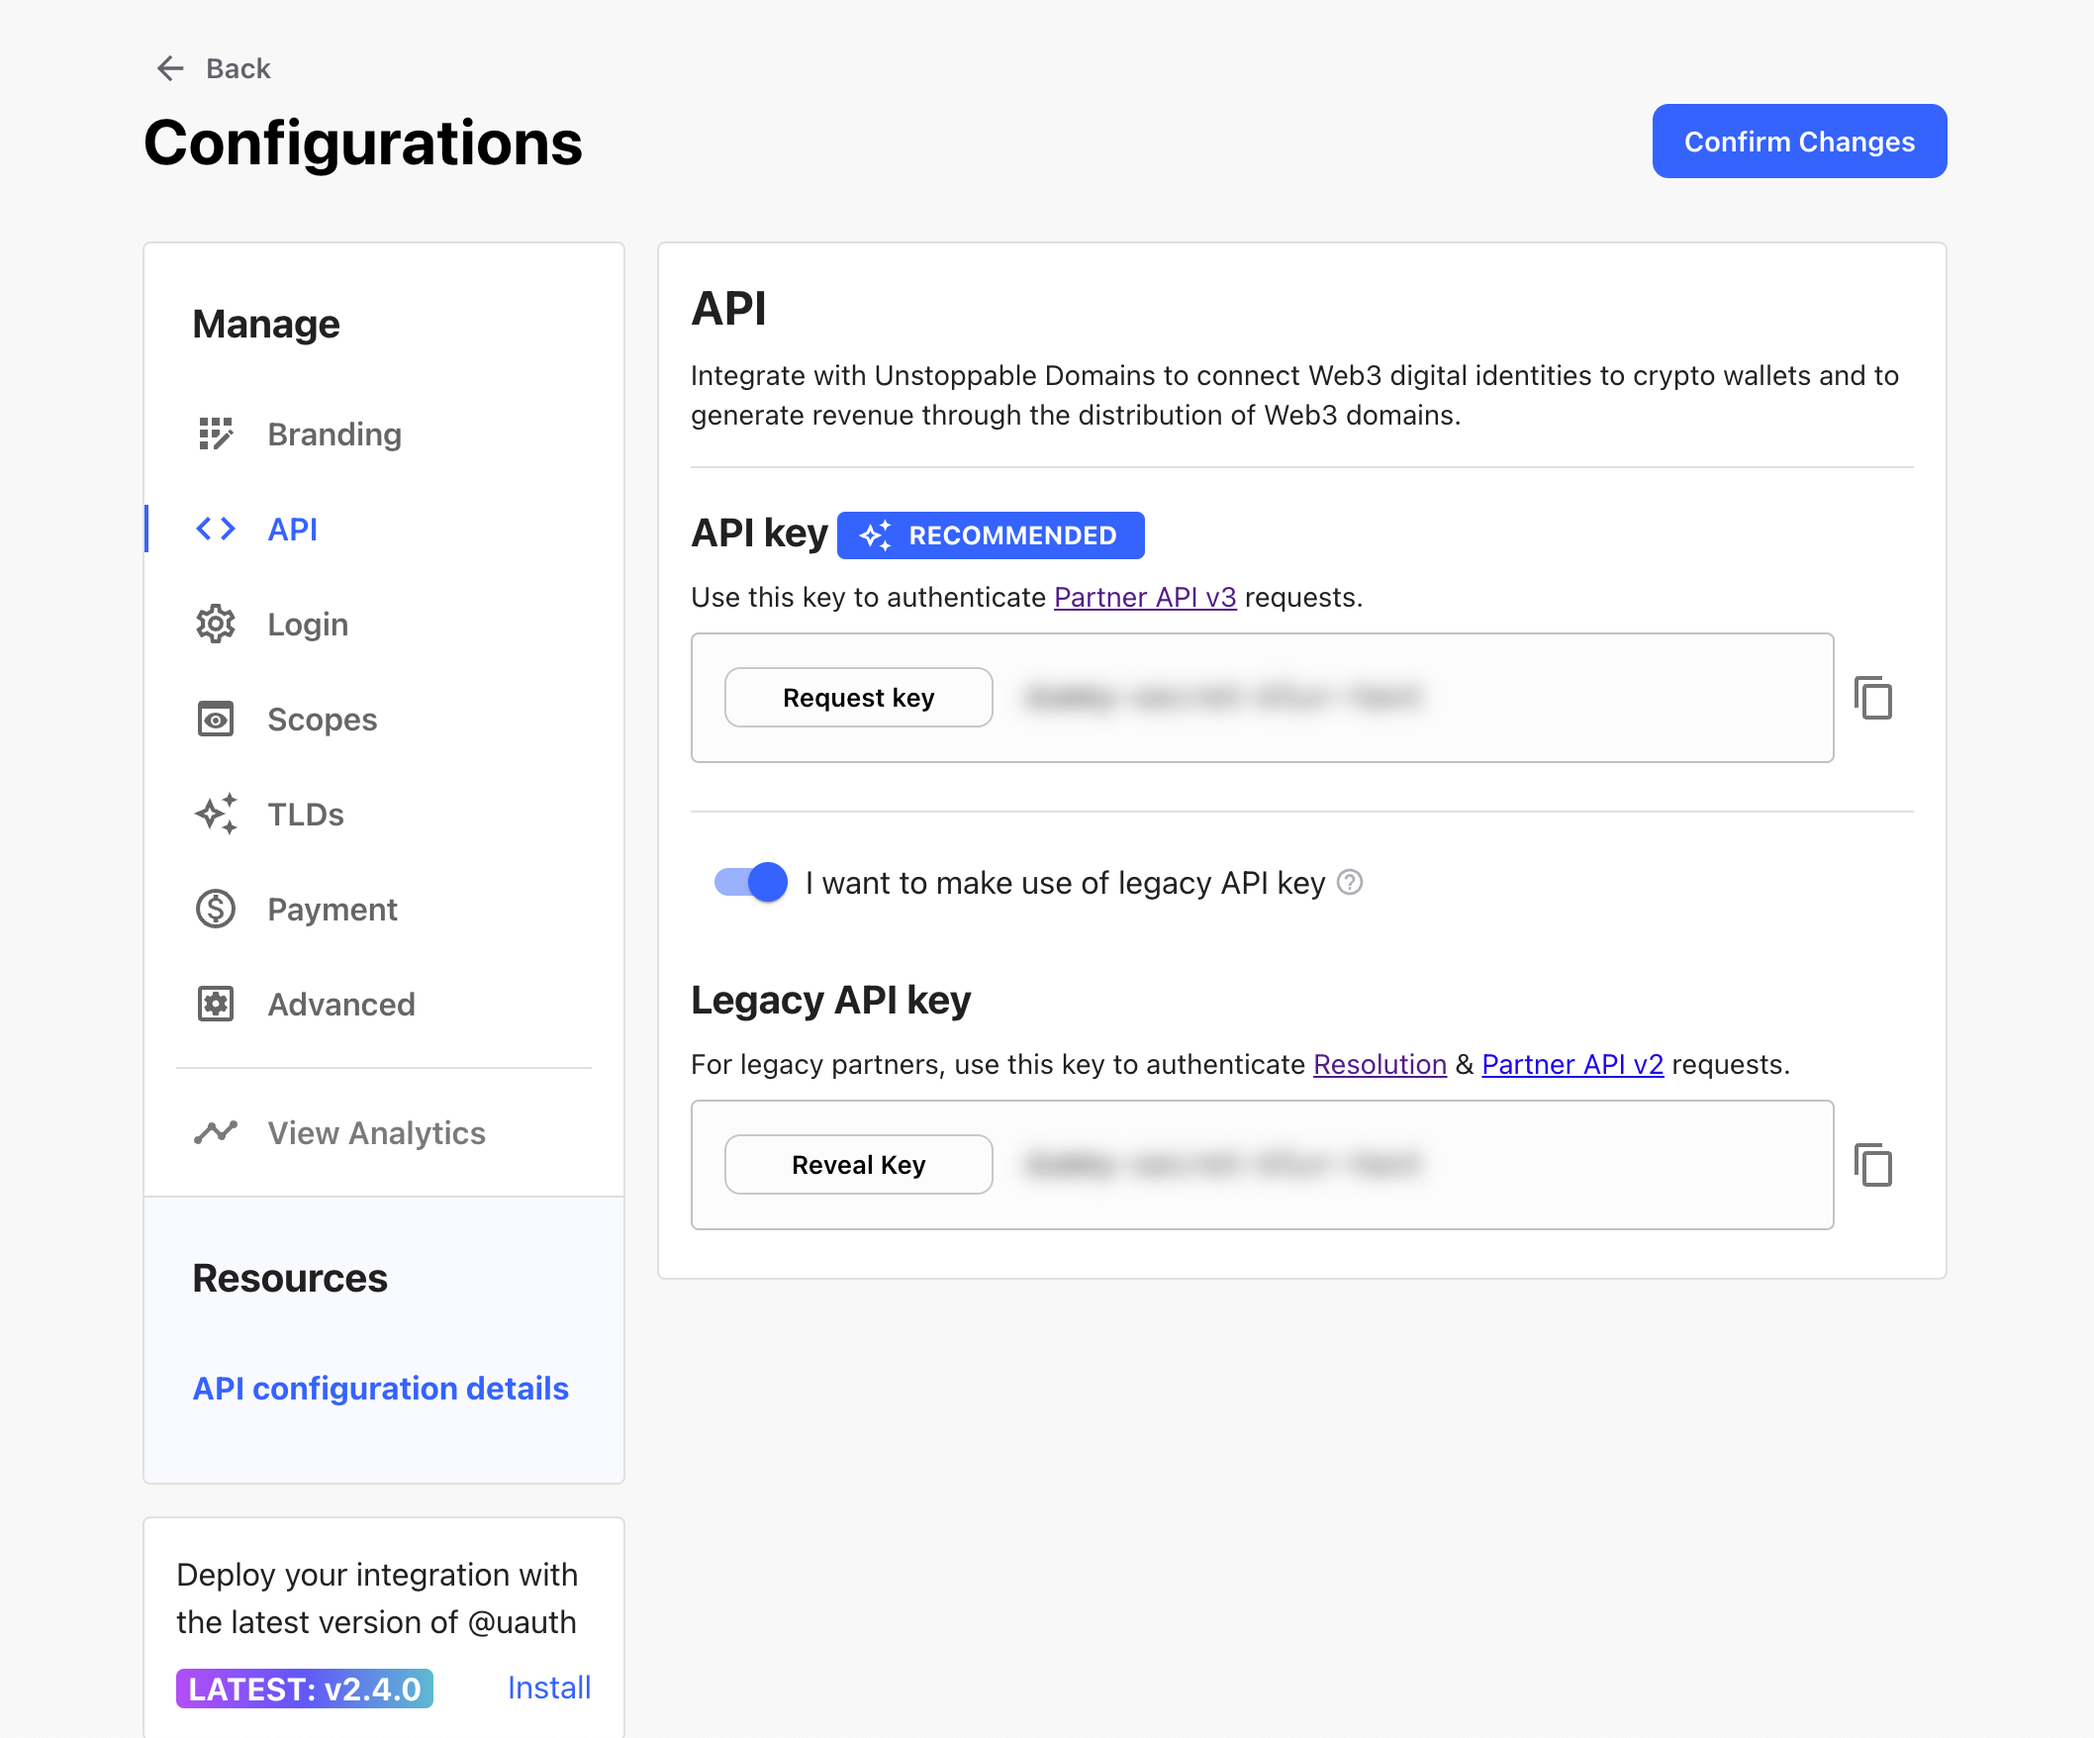
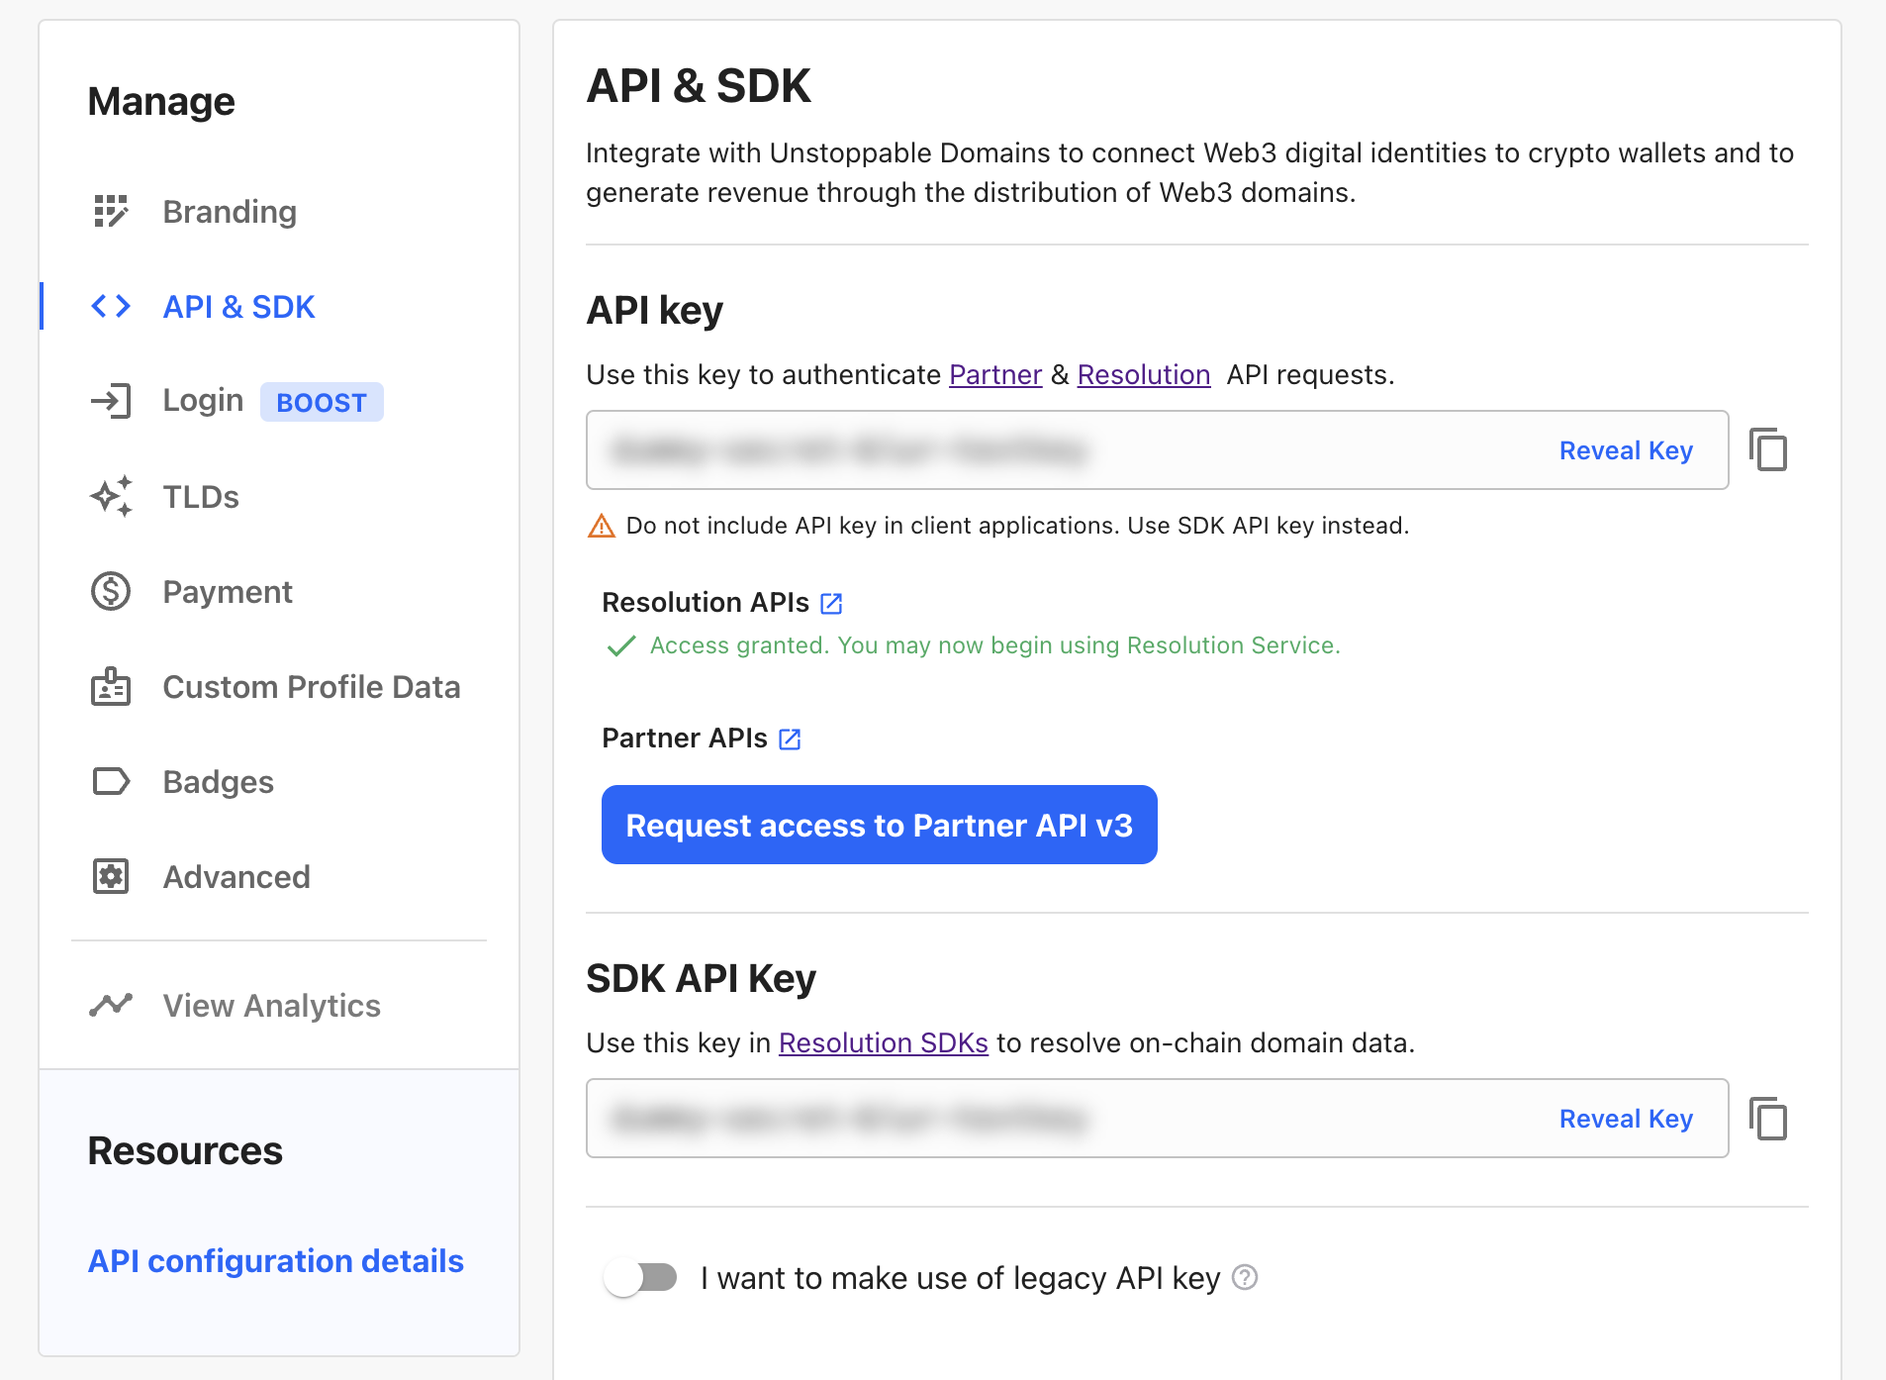
Update docs for retrieving keys (#130)

diff --git a/domain-distribution-and-management/quickstart/retrieve-an-api-key.md b/domain-distribution-and-management/quickstart/retrieve-an-api-key.md
@@ -67,7 +67,7 @@ Update your client information and click `Confirm Changes`
 
 ## Step 3: Obtain an API Key
 
-Navigate to the `API Panel` by clicking the `API` button.
+Navigate to the `API & SDK Panel` by clicking the `API & SDK` button.
 
 <figure>
 
@@ -86,9 +86,21 @@ Request one of the following keys depending on your current usage. You **might**
 </figure>
 
 ### API Key
-Refer to [Partner API v3](https://docs.unstoppabledomains.com/openapi/partner/latest/) for supported use cases.
+Refer to [Partner API v3](https://docs.unstoppabledomains.com/openapi/partner/latest/) and [Domain Resolution API](https://docs.unstoppabledomains.com/openapi/resolution/) for supported use cases.
 
-When you click on the `Request key`, an email will be sent to our `Partner engineering team`. The team will be contacting you in shortly via the email you login with or the one submitted when requesting to acquire the key.
+:::warning
+Your API key is only intended for use on your backend servers. Any other usage could result in security risks and or your key being deactivated. Please refer to [Best Practices for Integrating Partner API](https://docs.unstoppabledomains.com/domain-distribution-and-management/guides/best-practices/#dont-use-your-secrets-in-the-frontend) for integrating with us.
+:::
+
+By default, you will have access to `Domain Resolution API`.
+
+If you wish to have access to `Partner API v3`, please click `Request access to Partner API v3`. Our `Partner engineering team` team will be contacting you in shortly via email.
+
+
+### SDK Key
+Refer to [Resolution SDKs](https://docs.unstoppabledomains.com/resolution/sdks-and-libraries/overview/)
+
+The key is only allowed to be used in Resolution SDKs to interact with EVM RPC providers to query on-chain data. See [example](https://docs.unstoppabledomains.com/resolution/sdks-and-libraries/javascript/#initialize-with-unstoppable-domains-uns-proxy-provider)
 
 ### Legacy API Key
 Refer to [Domain Resolution](https://docs.unstoppabledomains.com/openapi/resolution/) and [Domain Distribution and Management Overview
